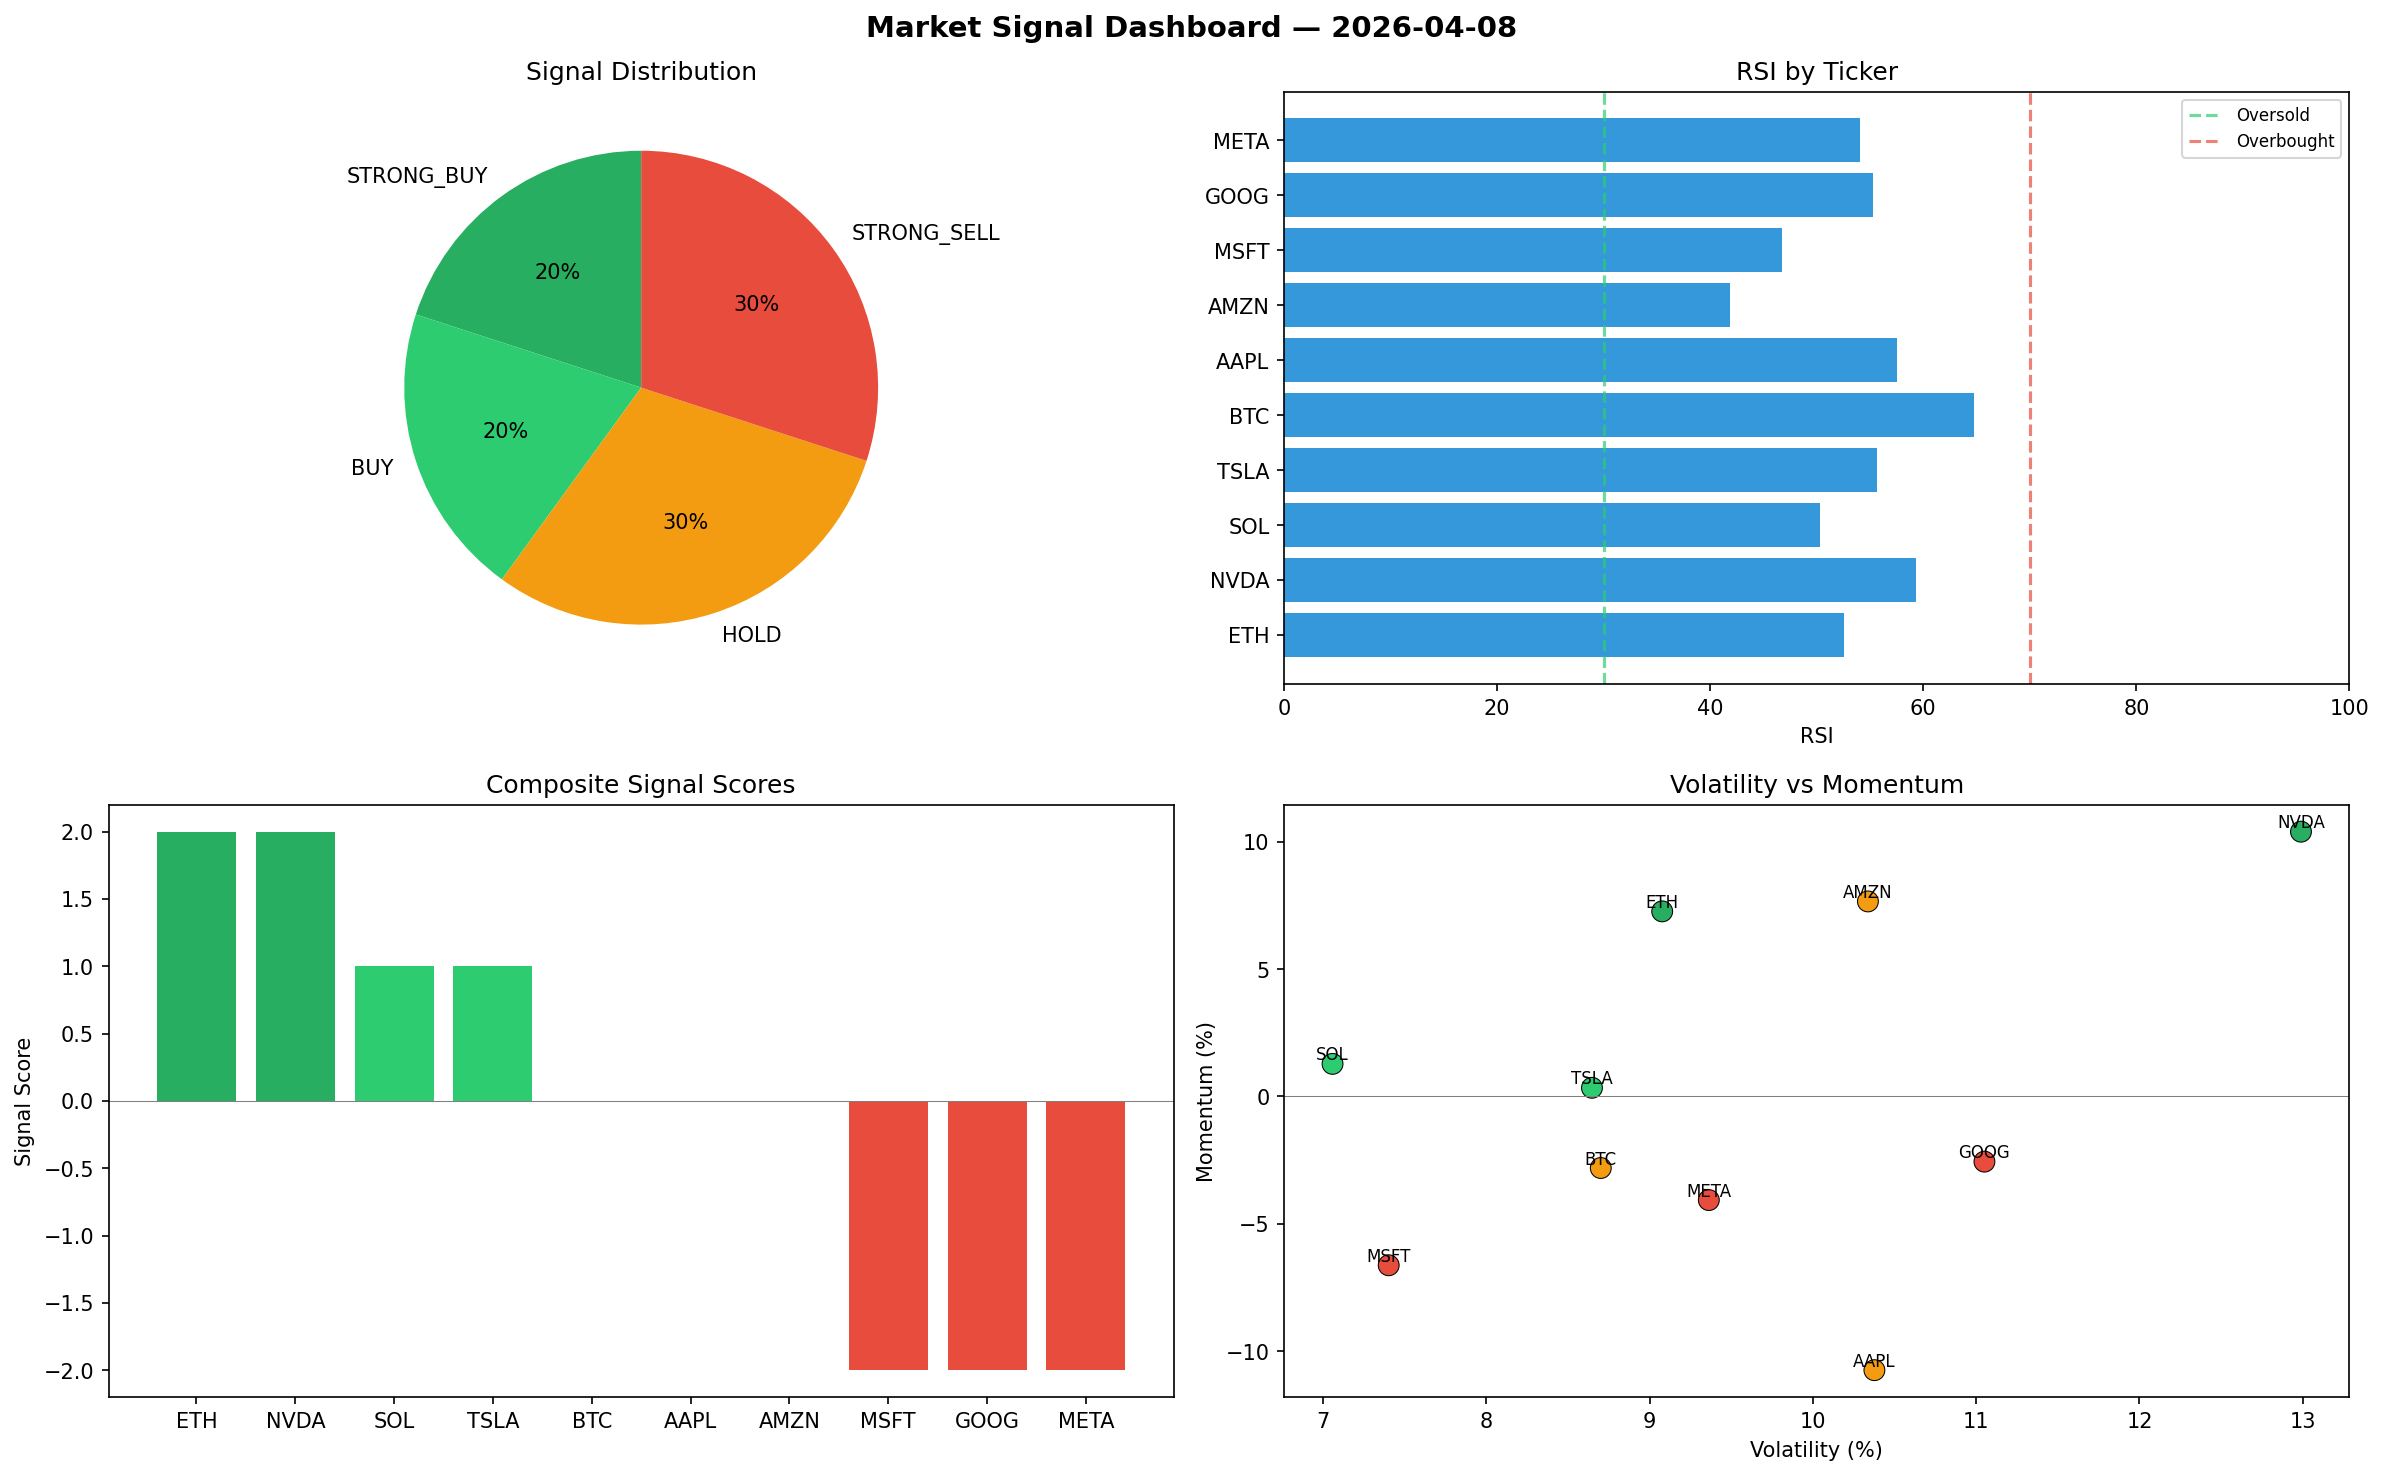
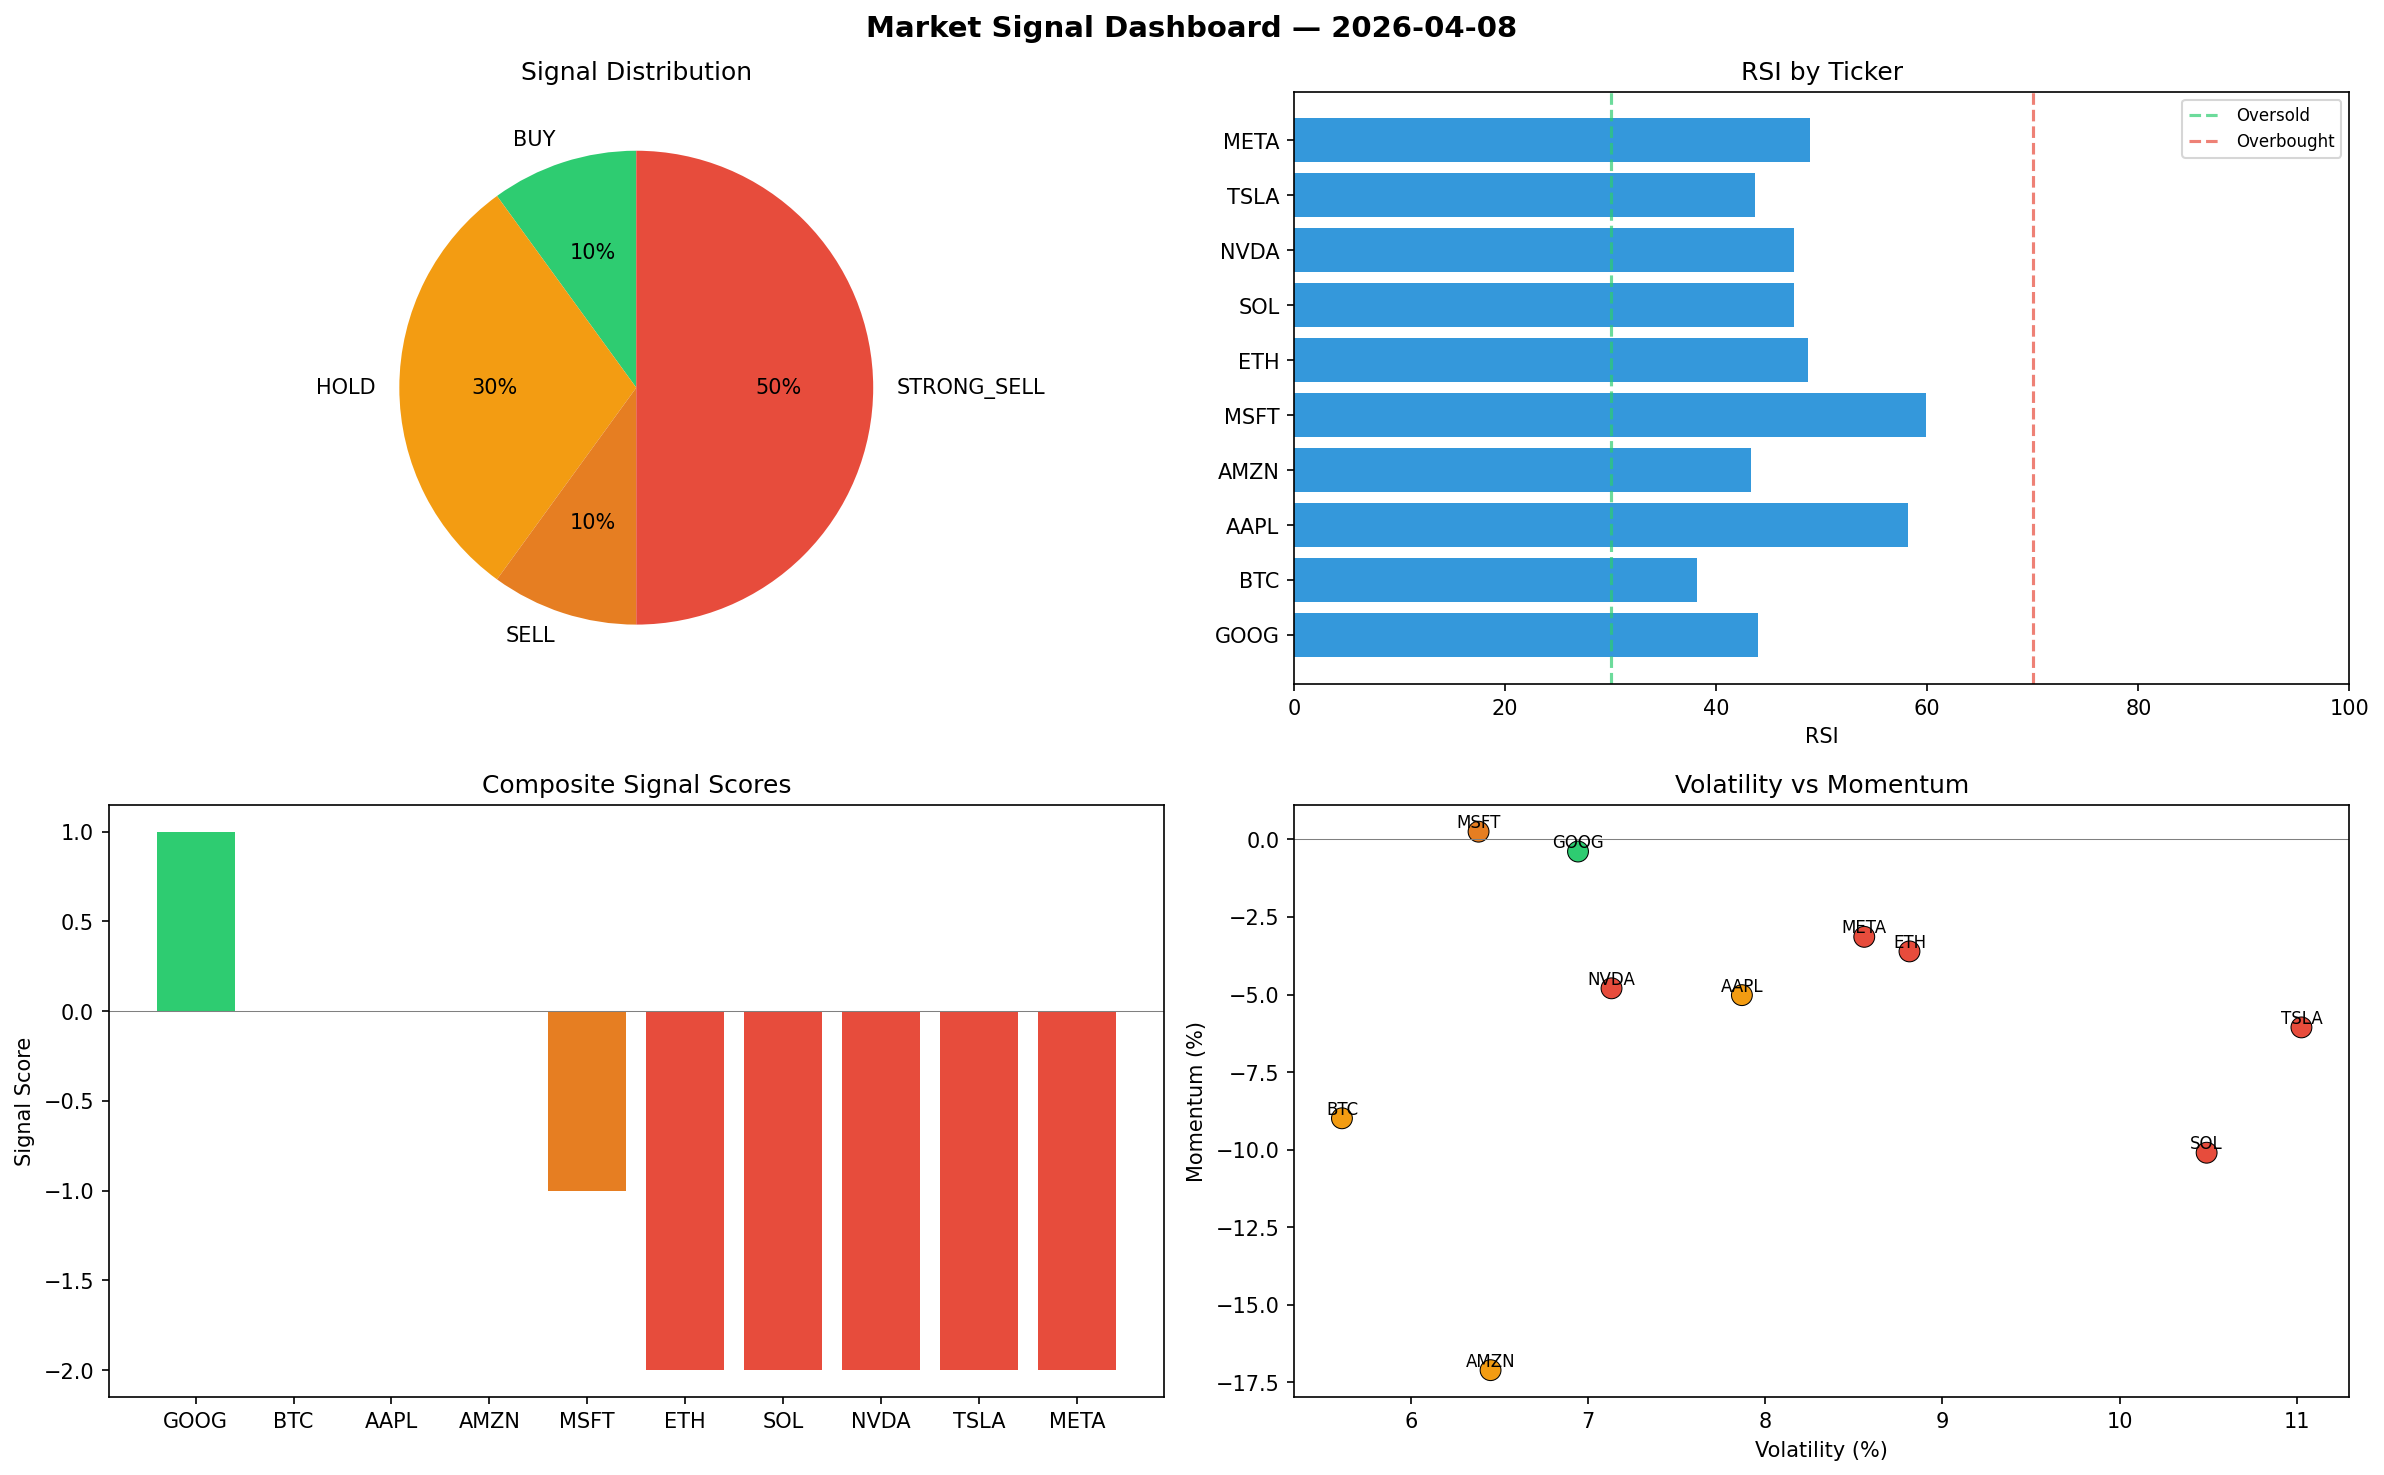
automated-bots: market signals 2026-04-08T21:06

diff --git a/logs/2026-04-08.md b/logs/2026-04-08.md
@@ -1,6 +1,6 @@
 # Market Signal Report — 2026-04-08
 
-**Run ID:** `55b9be018f` | **Buy:** 4 | **Sell:** 3 | **Hold:** 3
+**Run ID:** `0d2161188e` | **Buy:** 1 | **Sell:** 6 | **Hold:** 3
 
 ![Dashboard](2026-04-08_dashboard.png)
 
@@ -8,28 +8,28 @@
 
 | Ticker | Price | Signal | Score | RSI | Momentum | Confidence |
 |--------|-------|--------|-------|-----|----------|------------|
-| ETH | $1119.2 | **STRONG_BUY** | 2 | 52.52 | 0.0727 | 0.5 |
-| NVDA | $4668.64 | **STRONG_BUY** | 2 | 59.27 | 0.104 | 0.5 |
-| SOL | $4502.32 | **BUY** | 1 | 50.3 | 0.0128 | 0.25 |
-| TSLA | $3456.01 | **BUY** | 1 | 55.61 | 0.0034 | 0.25 |
-| BTC | $5259.25 | **HOLD** | 0 | 64.73 | -0.0281 | 0.0 |
-| AAPL | $965.8 | **HOLD** | 0 | 57.52 | -0.1075 | 0.0 |
-| AMZN | $3344.79 | **HOLD** | 0 | 41.89 | 0.0766 | 0.0 |
-| MSFT | $3079.0 | **STRONG_SELL** | -2 | 46.73 | -0.0663 | 0.5 |
-| GOOG | $4144.35 | **STRONG_SELL** | -2 | 55.31 | -0.0256 | 0.5 |
-| META | $2411.63 | **STRONG_SELL** | -2 | 54.08 | -0.0407 | 0.5 |
+| GOOG | $3598.51 | **BUY** | 1 | 44.0 | -0.0039 | 0.25 |
+| BTC | $1784.68 | **HOLD** | 0 | 38.22 | -0.0899 | 0.0 |
+| AAPL | $4465.58 | **HOLD** | 0 | 58.17 | -0.0502 | 0.0 |
+| AMZN | $1787.85 | **HOLD** | 0 | 43.29 | -0.1711 | 0.0 |
+| MSFT | $424.57 | **SELL** | -1 | 59.89 | 0.0025 | 0.25 |
+| ETH | $947.26 | **STRONG_SELL** | -2 | 48.73 | -0.0361 | 0.5 |
+| SOL | $887.63 | **STRONG_SELL** | -2 | 47.34 | -0.101 | 0.5 |
+| NVDA | $560.24 | **STRONG_SELL** | -2 | 47.36 | -0.048 | 0.5 |
+| TSLA | $4533.9 | **STRONG_SELL** | -2 | 43.64 | -0.0606 | 0.5 |
+| META | $3174.05 | **STRONG_SELL** | -2 | 48.89 | -0.0314 | 0.5 |
 
 ## Delta vs Yesterday
 
 | Ticker | Today | Yesterday | Price Change | Signal Changed |
 |--------|-------|-----------|-------------|----------------|
-| ETH | STRONG_BUY | SELL | 📉 -73.26% | ⚠ YES |
-| NVDA | STRONG_BUY | HOLD | 📈 11.19% | ⚠ YES |
-| SOL | BUY | STRONG_BUY | 📈 338.96% | ⚠ YES |
-| TSLA | BUY | HOLD | 📉 -14.37% | ⚠ YES |
-| BTC | HOLD | STRONG_SELL | 📈 92.3% | ⚠ YES |
-| AAPL | HOLD | HOLD | 📉 -79.53% | — |
-| AMZN | HOLD | HOLD | 📈 350.83% | — |
-| MSFT | STRONG_SELL | STRONG_BUY | 📈 10.48% | ⚠ YES |
-| GOOG | STRONG_SELL | HOLD | 📈 73.22% | ⚠ YES |
-| META | STRONG_SELL | BUY | 📉 -19.49% | ⚠ YES |
+| GOOG | BUY | HOLD | 📈 50.41% | ⚠ YES |
+| BTC | HOLD | STRONG_SELL | 📉 -34.74% | ⚠ YES |
+| AAPL | HOLD | HOLD | 📉 -5.33% | — |
+| AMZN | HOLD | HOLD | 📈 140.98% | — |
+| MSFT | SELL | STRONG_BUY | 📉 -84.77% | ⚠ YES |
+| ETH | STRONG_SELL | SELL | 📉 -77.37% | ⚠ YES |
+| SOL | STRONG_SELL | STRONG_BUY | 📉 -13.46% | ⚠ YES |
+| NVDA | STRONG_SELL | HOLD | 📉 -86.66% | ⚠ YES |
+| TSLA | STRONG_SELL | HOLD | 📈 12.34% | ⚠ YES |
+| META | STRONG_SELL | BUY | 📈 5.97% | ⚠ YES |
